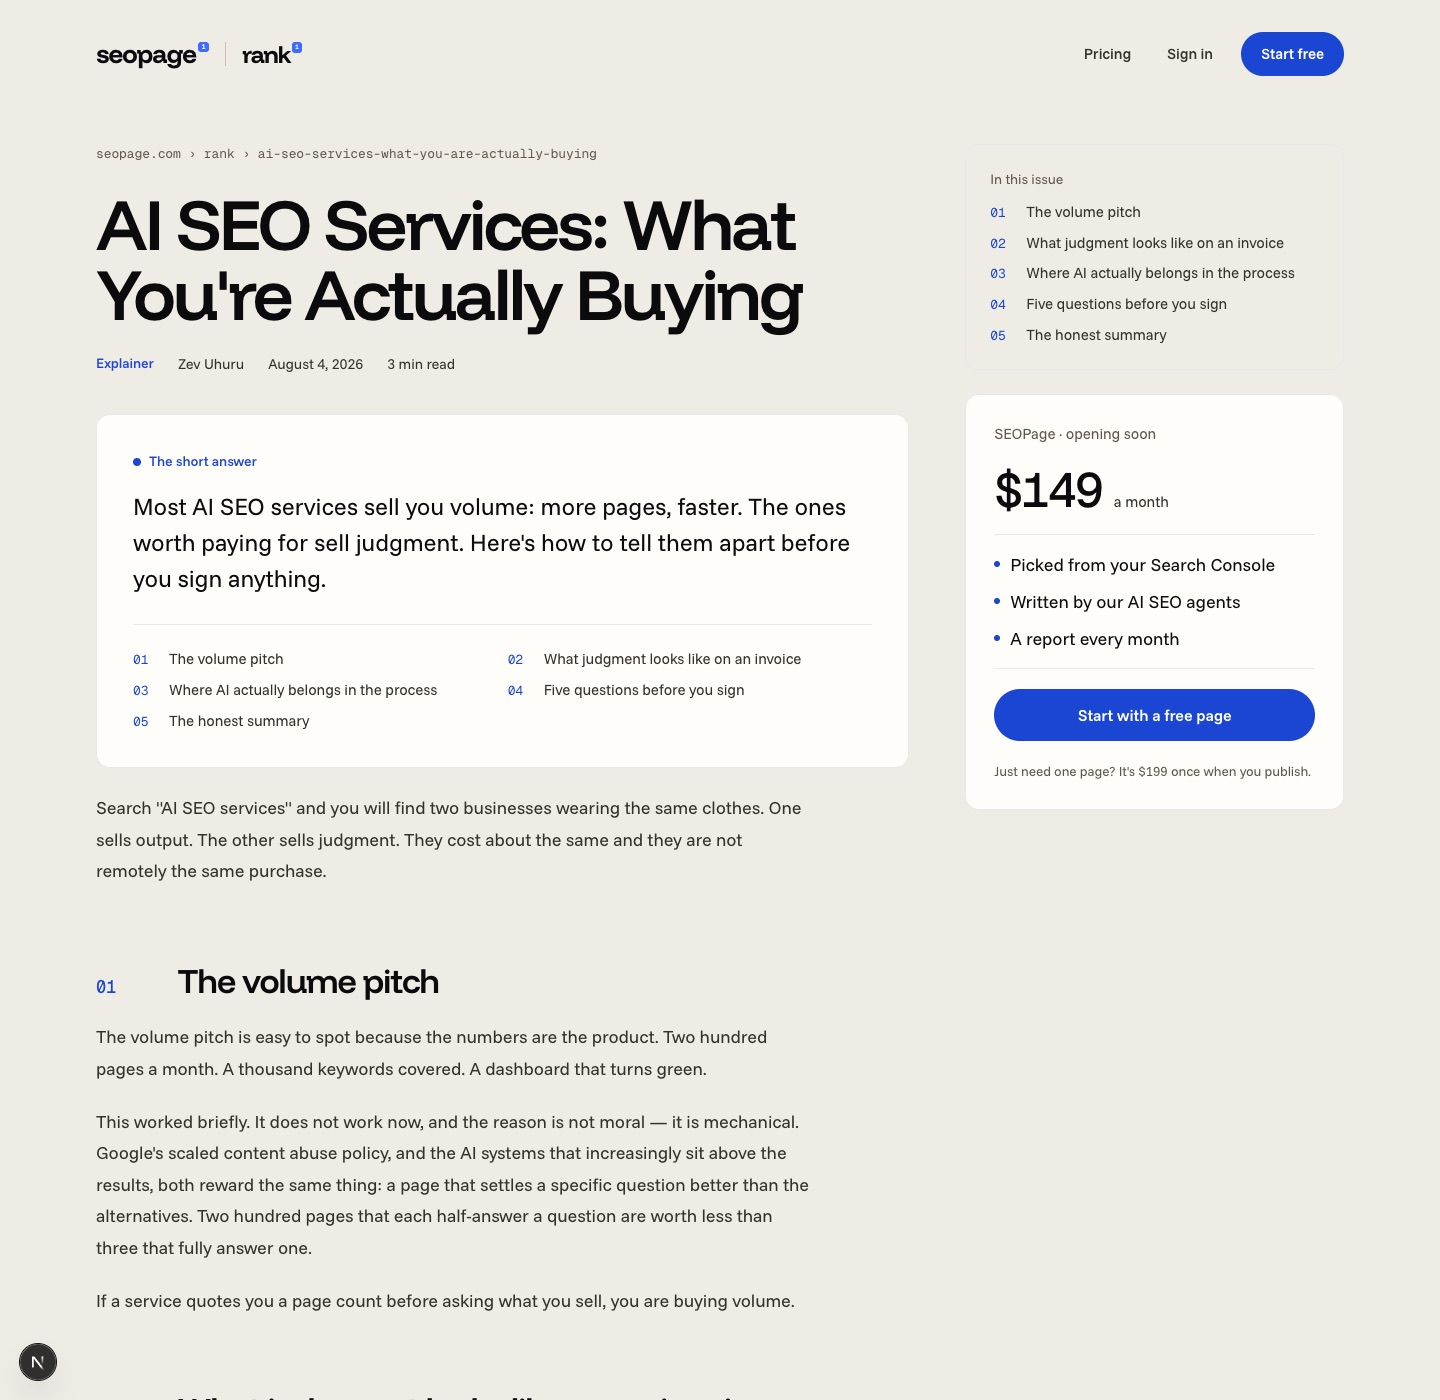
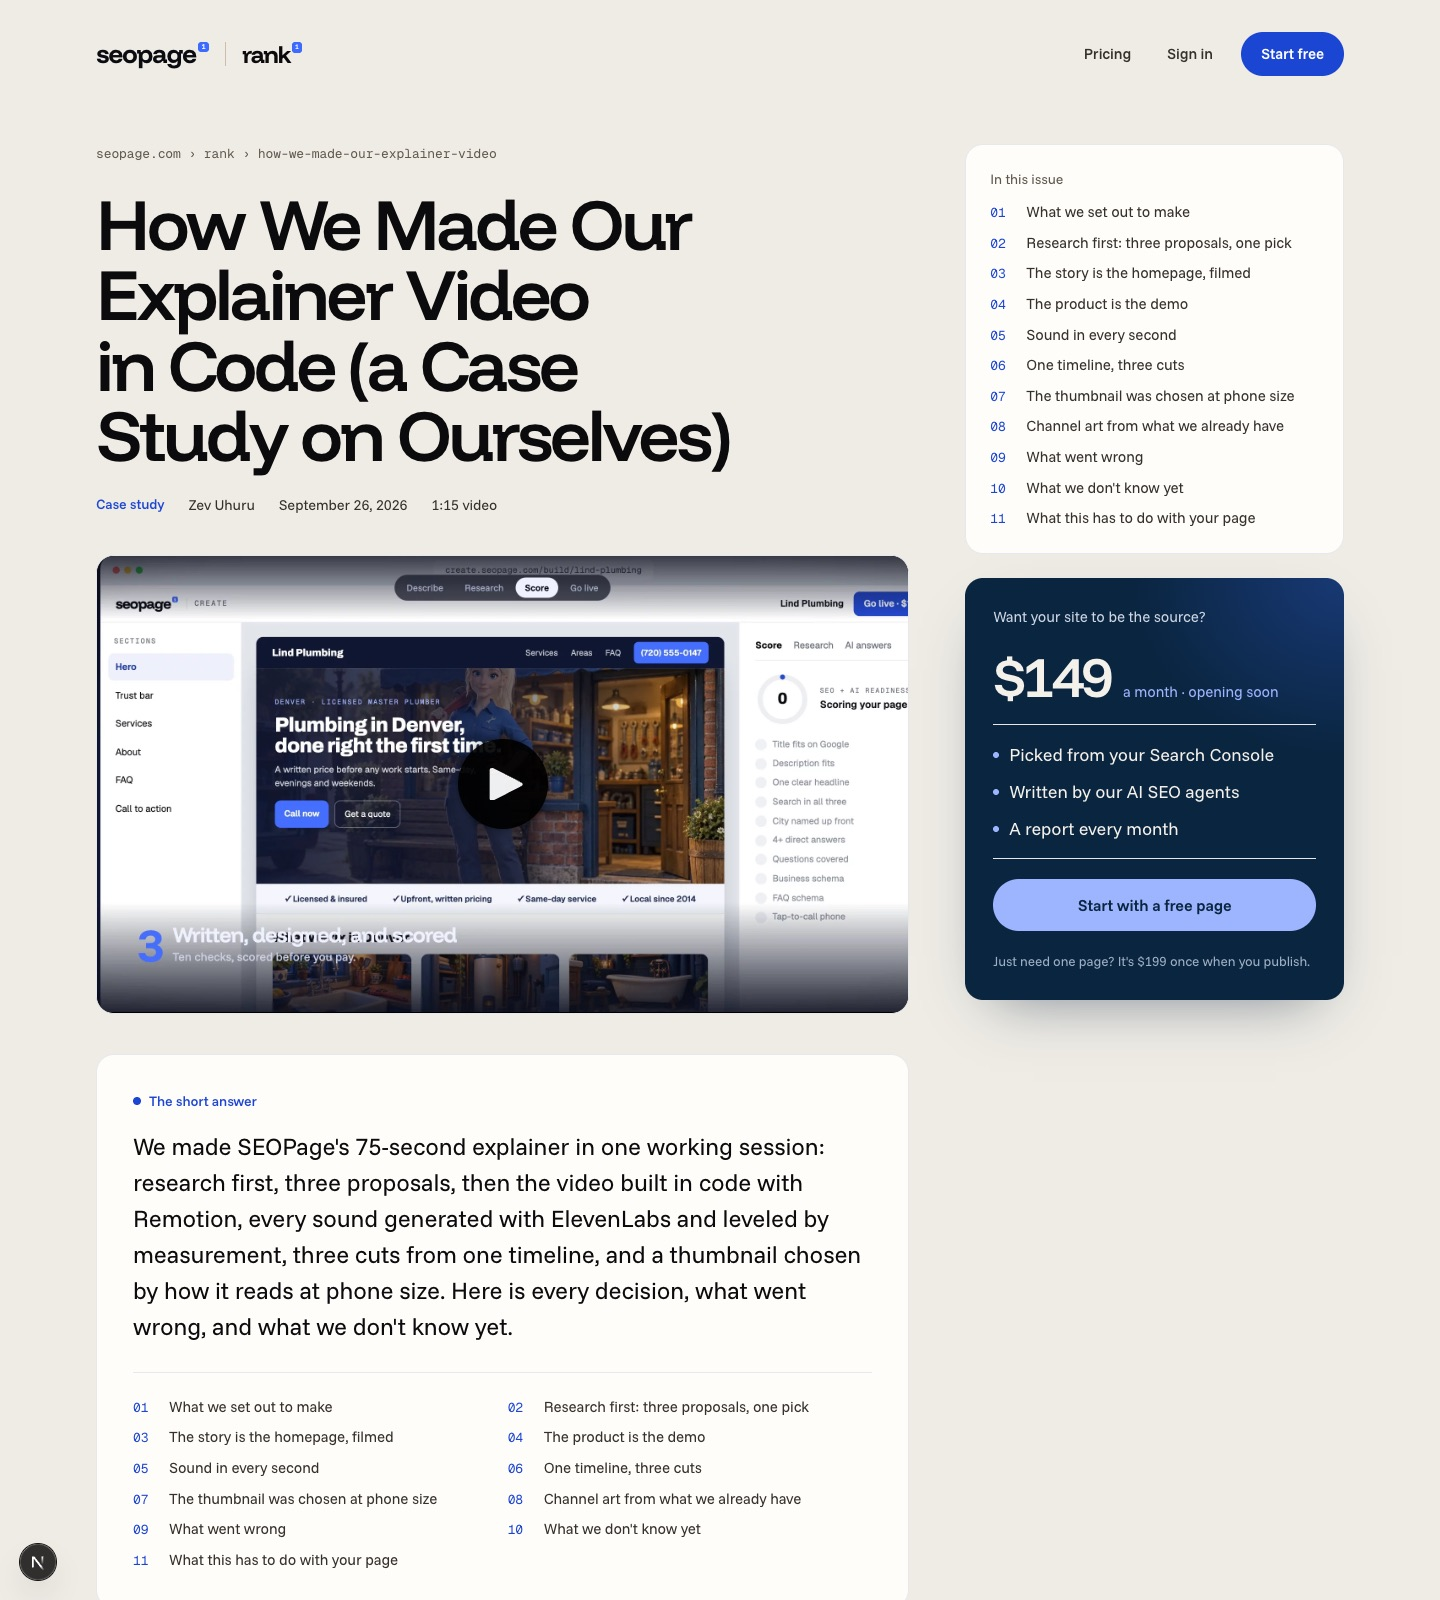
The journal gets its contrast back: navy cards on Oat
On the light page the rail blurred into the article: beige borders on
beige and a cream plan card. The plan card and the index's latest issue
are now Esy Navy (the one dark object per screen, as the dark theme's
gradient card was), the latest issue shows its thumbnail, the next three
get big cobalt numbers, and the sections list and short answer sit on
white cards with a darker border.

diff --git a/components/oat/rank.tsx b/components/oat/rank.tsx
@@ -53,11 +53,18 @@ export function JournalShell({ base, children }: { base: string; children: React
   );
 }
 
+/* Esy Navy as a local tone: the kit's variables flipped for light text, so Points, buttons and
+   labels inside a navy block read correctly. Used by the close, the plan card and the lead issue,
+   the journal's dark objects on the light page (they replace the dark theme's outlined boxes). */
+const NAVY = {
+  "--o-text": "#f4f1ea", "--o-text2": "#cdd6e2", "--o-muted": "#9fb0c4", "--o-edge": "rgba(244,241,234,.14)",
+  "--o-action": "#9db4ff", "--o-action-ink": "#0a2540", "--o-link": "#9db4ff", background: "#0a2540", color: "#f4f1ea",
+} as CSSProperties;
+
 /* The close: Esy Navy, the plan's ask in checklist voice. */
 function JournalClose() {
-  const navy = { "--o-text": "#f4f1ea", "--o-text2": "#cdd6e2", "--o-action": "#9db4ff", "--o-action-ink": "#0a2540", background: "#0a2540", color: "#f4f1ea" } as CSSProperties;
   return (
-    <section className={`${SECTION} text-center`} style={navy}>
+    <section className={`${SECTION} text-center`} style={NAVY}>
       <p className="text-[16px] font-medium text-[#9db4ff]">Everything here is how we build your pages.</p>
       <h2 className={`${H2} mx-auto mt-5 max-w-[860px]`}>Give the searches near you an answer on your site.</h2>
       <div className={`${BODY} mx-auto mt-6 max-w-[560px]`}>
@@ -68,14 +75,15 @@ function JournalClose() {
   );
 }
 
-/* The article's money card: the monthly plan, with one page as a footnote. */
+/* The article's money card: the monthly plan, with one page as a footnote. Navy, so it's the
+   brightest-contrast object in the rail, as the dark theme's gradient card was. */
 export function PlanCard() {
   return (
-    <div className={`${CARD} flex flex-col gap-5 p-7`}>
-      <span className="text-[15px] text-[var(--o-muted)]">SEOPage · opening soon</span>
+    <div className="flex flex-col gap-5 rounded-[18px] p-7 shadow-[0_24px_60px_-28px_rgba(10,37,64,.55)]" style={{ ...NAVY, backgroundImage: "radial-gradient(80% 60% at 100% 0%, rgba(61,107,255,.28), transparent 70%)" }}>
+      <span className="text-[15px] text-[var(--o-text2)]">Want your site to be the source?</span>
       <span className="flex items-baseline gap-3">
-        <span className={`${NUM} text-[48px] font-medium leading-none tracking-[-0.04em]`}>$149</span>
-        <span className="text-[15px] text-[var(--o-text2)]">a month</span>
+        <span className="font-[family-name:var(--o-head)] text-[56px] font-semibold leading-none tracking-[-0.05em]">$149</span>
+        <span className="text-[15px] text-[var(--o-link)]">a month · opening soon</span>
       </span>
       <div className="border-y border-[var(--o-edge)] py-4">
         <Points items={["Picked from your Search Console", "Written by our AI SEO agents", "A report every month"]} />
@@ -136,6 +144,9 @@ export function SectionLink({ id, text, i }: { id: string; text: string; i: numb
   );
 }
 
+/* An article's picture: its chosen thumbnail, else Mux's frame once there's a video. */
+const thumbOf = (a: Article) => a.thumbnailUrl ?? (a.muxPlaybackId ? `https://image.mux.com/${a.muxPlaybackId}/thumbnail.jpg?time=0` : undefined);
+
 /* ---------- The index: the masthead, the latest issue beside the next three, then every issue.
    Issue numbers count up from the oldest. ---------- */
 export function RankIndex({ articles, base }: { articles: Article[]; base: string }) {
@@ -164,19 +175,27 @@ export function RankIndex({ articles, base }: { articles: Article[]; base: strin
 
       {/* FRONT: the latest issue beside the next three */}
       {lead && (
-        <section className={`${PAD} grid gap-12 pb-24 lg:grid-cols-12 lg:gap-16`}>
-          <Link href={href(lead.slug)} className="group flex flex-col gap-6 lg:col-span-7">
-            <span className={LABEL}>Latest · {lead.categoryLabel}</span>
-            <h2 className="font-[family-name:var(--o-head)] text-[clamp(42px,5.4vw,84px)] font-semibold leading-[0.96] tracking-[-0.045em] transition-colors group-hover:text-[var(--o-link)]">{lead.title}</h2>
-            <p className="max-w-[620px] text-[clamp(18px,1.5vw,21px)] leading-[1.55] text-[var(--o-text2)]">{lead.description}</p>
-            <span className="text-[15px] font-medium text-[var(--o-link)]">Read · {readMinutes(lead.content)} min →</span>
+        <section className={`${PAD} grid items-start gap-12 pb-24 lg:grid-cols-12 lg:gap-14`}>
+          {/* The latest issue on a navy card, with its thumbnail when it has one: the page's one dark object */}
+          <Link href={href(lead.slug)} className="group flex flex-col overflow-hidden rounded-[22px] shadow-[0_30px_70px_-34px_rgba(10,37,64,.6)] lg:col-span-7" style={NAVY}>
+            {thumbOf(lead) && (
+              // eslint-disable-next-line @next/next/no-img-element -- the article's own thumbnail, any host
+              <img src={thumbOf(lead)} alt="" className="block aspect-video w-full object-cover transition-transform duration-500 group-hover:scale-[1.015]" />
+            )}
+            <div className="flex flex-col gap-5 p-8 sm:p-10" style={{ backgroundImage: "radial-gradient(70% 80% at 100% 0%, rgba(61,107,255,.24), transparent 70%)" }}>
+              <span className={LABEL}>Latest · {lead.categoryLabel}</span>
+              <h2 className="font-[family-name:var(--o-head)] text-[clamp(36px,4.2vw,64px)] font-semibold leading-[0.98] tracking-[-0.045em]">{lead.title}</h2>
+              <p className="max-w-[620px] text-[clamp(17px,1.4vw,19px)] leading-[1.55] text-[var(--o-text2)]">{lead.description}</p>
+              <span className="text-[15px] font-medium text-[var(--o-link)] group-hover:underline group-hover:underline-offset-4">Read · {readMinutes(lead.content)} min →</span>
+            </div>
           </Link>
           {next.length > 0 && (
-            <ol className="flex flex-col lg:col-span-5 lg:border-l lg:border-[var(--o-edge-strong)] lg:pl-12">
+            <ol className="flex flex-col lg:col-span-5">
               {next.map((a, i) => (
-                <li key={a.slug} className="border-b border-[var(--o-edge)] first:border-t lg:first:border-t-0">
-                  <Link href={href(a.slug)} className="group grid grid-cols-[56px_1fr] gap-4 py-7">
-                    <span className={`${NUM} pt-1 text-[15px] text-[var(--o-link)]`}>{issueNo(i + 1)}</span>
+                <li key={a.slug} className="border-b border-[var(--o-edge-strong)] first:border-t">
+                  <Link href={href(a.slug)} className="group grid grid-cols-[72px_1fr] gap-4 py-7">
+                    {/* Big display numbers, as the dark journal had them, in cobalt */}
+                    <span className="font-[family-name:var(--o-head)] text-[52px] font-semibold leading-[0.85] tracking-[-0.05em] text-[var(--o-link)]">{issueNo(i + 1)}</span>
                     <span className="flex flex-col gap-2">
                       <span className="text-[13.5px] text-[var(--o-muted)]">{a.categoryLabel}</span>
                       <span className="font-[family-name:var(--o-head)] text-[26px] font-semibold leading-[1.08] tracking-[-0.035em] transition-colors group-hover:text-[var(--o-link)]">{a.title}</span>
@@ -254,7 +273,7 @@ export function RankArticle({ article, related, base }: { article: Article; rela
           )}
 
           {/* The short answer: the self-contained passage an assistant can lift, with the sections below it */}
-          <section className={`${CARD} mt-10 p-7 sm:p-9`}>
+          <section className="mt-10 rounded-[18px] border border-[var(--o-edge-strong)] bg-[var(--o-panel)] p-7 sm:p-9">
             <p className={`${LABEL} flex items-center gap-2`}>
               <span className="h-2 w-2 rounded-full bg-[var(--o-action)]" />
               The short answer
@@ -300,7 +319,7 @@ export function RankArticle({ article, related, base }: { article: Article; rela
         <aside className="lg:col-span-4">
           <div className="sticky top-8 flex flex-col gap-6">
             {heads.length > 0 && (
-              <nav aria-label="Sections" className="hidden rounded-[14px] border border-[var(--o-edge)] p-6 lg:block">
+              <nav aria-label="Sections" className="hidden rounded-[18px] border border-[var(--o-edge-strong)] bg-[var(--o-panel)] p-6 lg:block">
                 <p className="text-[14px] text-[var(--o-muted)]">In this issue</p>
                 <ol className="mt-3 flex flex-col gap-2.5">
                   {heads.map((h, i) => <li key={h.id}><SectionLink id={h.id} text={h.text} i={i} /></li>)}
